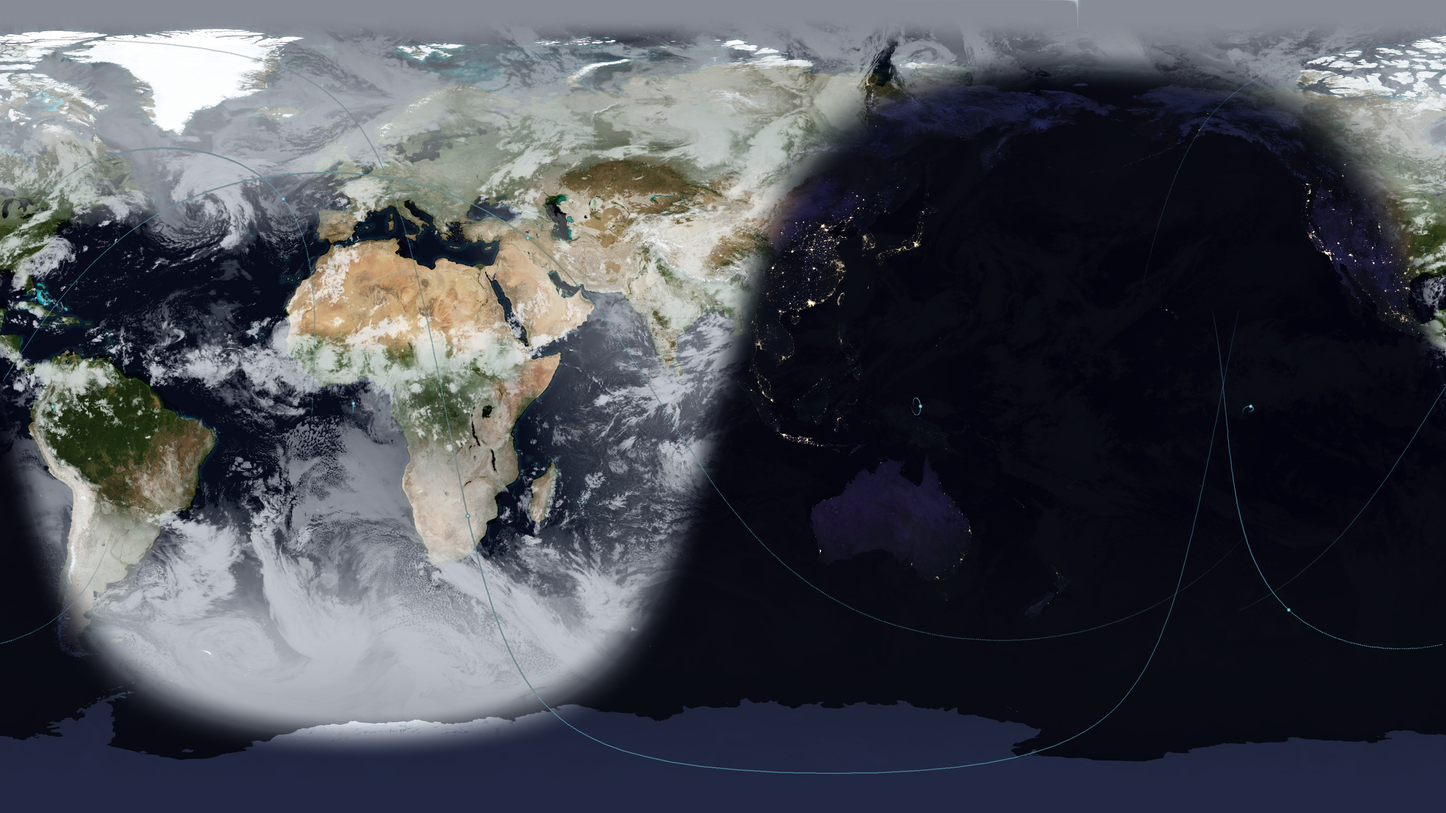
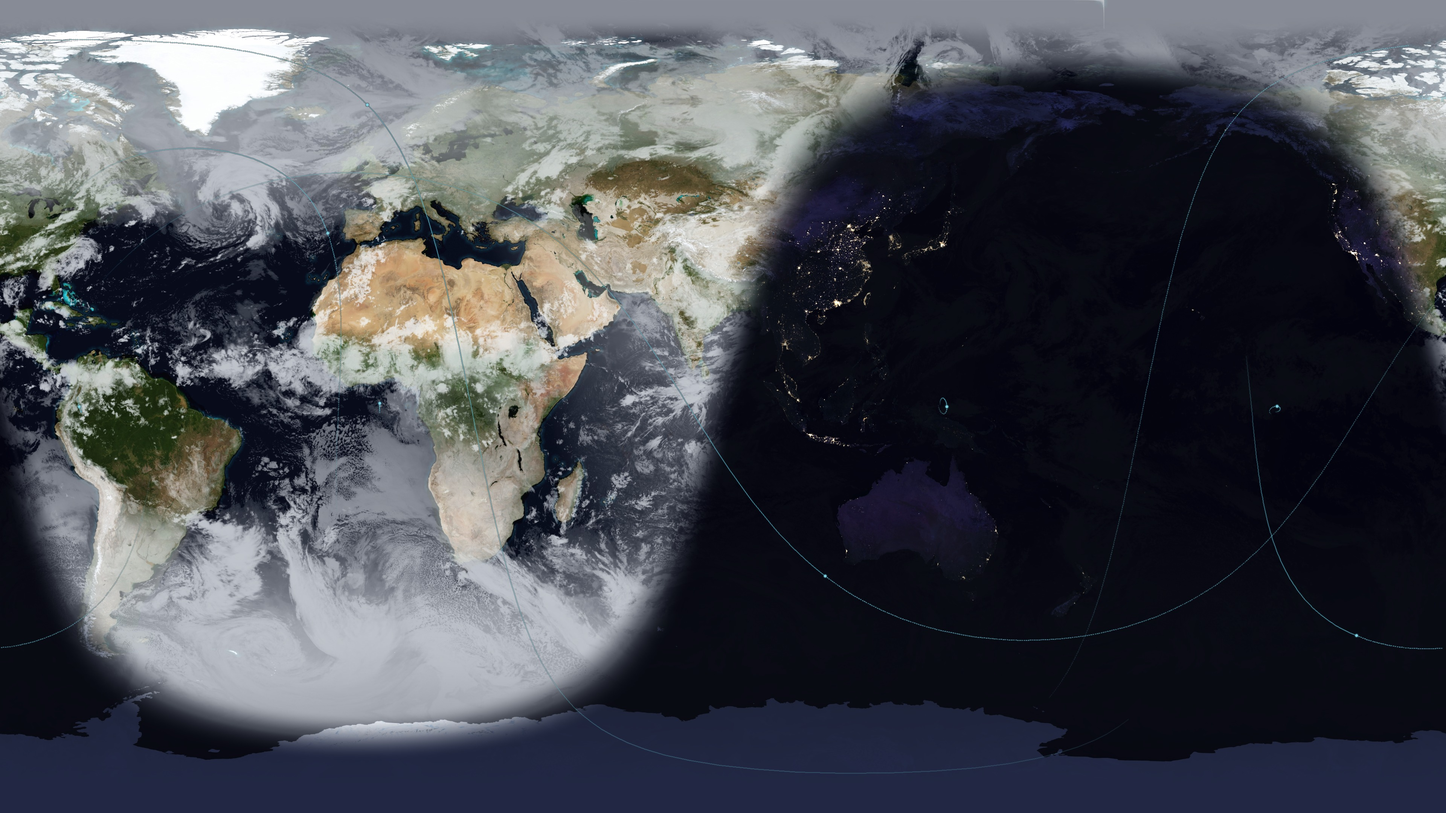
Update Desktop Earth web view

diff --git a/index.html b/index.html
@@ -146,7 +146,7 @@
     <figure>
       <div class="print">
         <img src="desktop-earth.jpg" width="3840" height="2160" alt="Current Planetary Runtime view">
-        <figcaption class="stamp">Updated 09 Aug 2026 20:53 JST</figcaption>
+        <figcaption class="stamp">Updated 09 Aug 2026 21:19 JST</figcaption>
       </div>
     </figure>
     <section class="metadata" aria-label="Image metadata">
